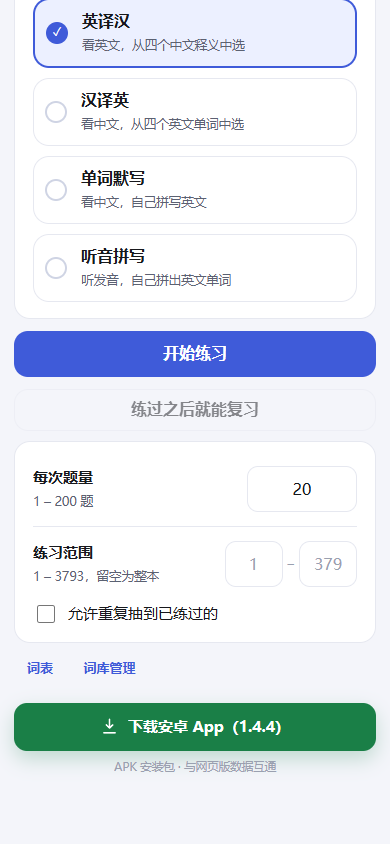
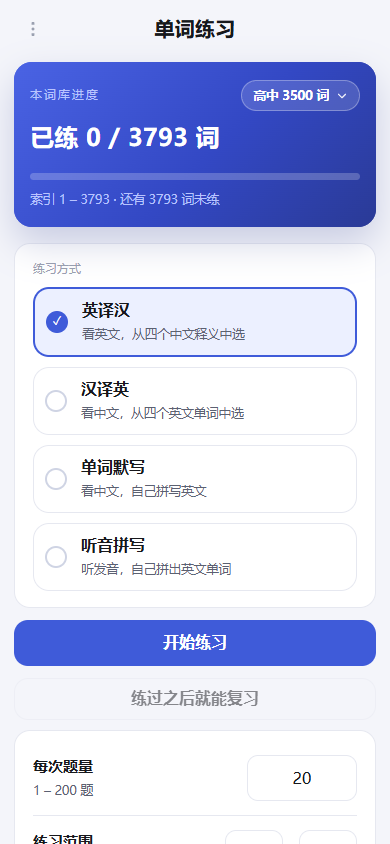
copy: 下载按钮副文案改为「可在设置中导入网页数据」

diff --git a/public/app.js b/public/app.js
@@ -305,7 +305,7 @@ function mobileAppDownloadHtml() {
         </svg>
         下载安卓 App（${apk.version}）
       </a>
-      <small>APK 安装包 · 与网页版数据互通</small>
+      <small>APK 安装包 · 可在设置中导入网页数据</small>
     </div>`;
 }
 
